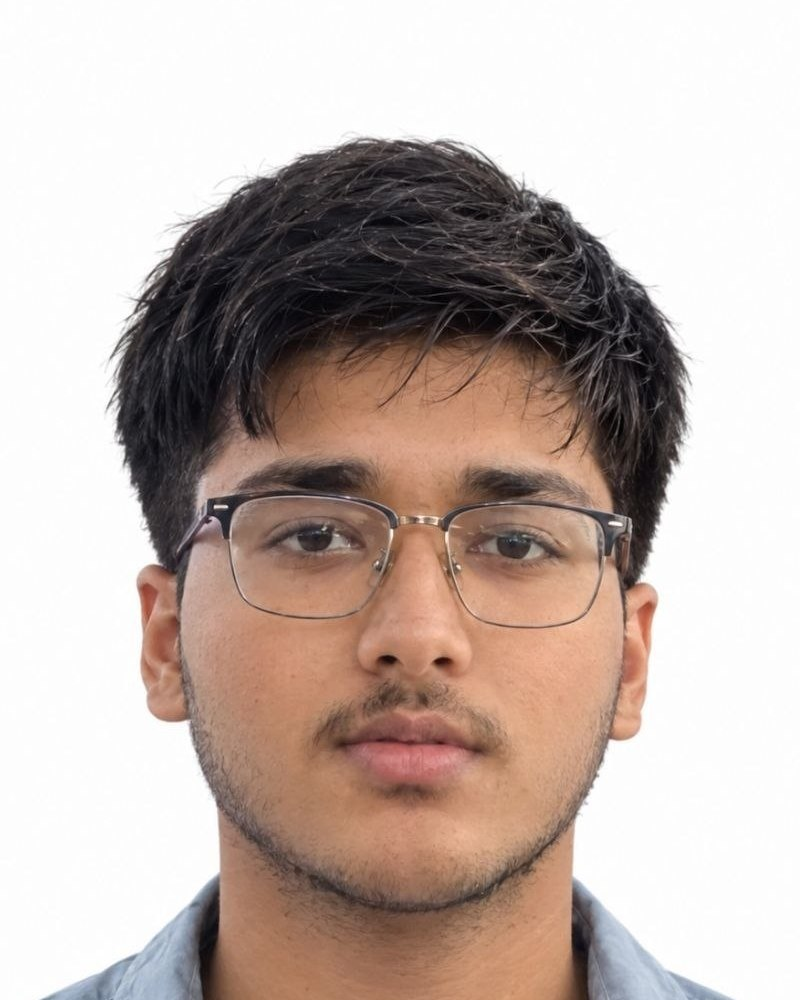
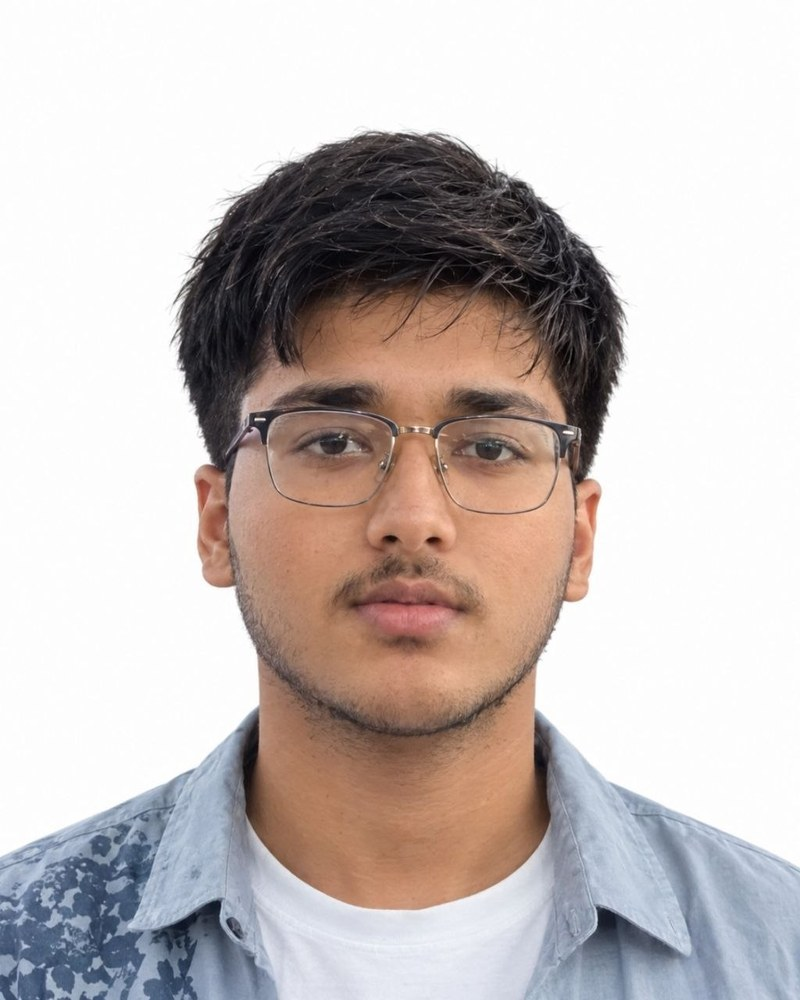
Founders: zoom out Aryan and Adarsh to show full frame with shoulders
- Use the entire original frame for Aryan and Adarsh instead of a tight
  bust crop; image stays fully inside the placeholder
- Trim the 2px grey scan border from Adarsh's photo
- Portrait img now uses its natural aspect ratio (no object-fit crop);
  Ismat's full-bleed variant keeps object-fit: cover
- Bump photo cache-bust to ?v=4

diff --git a/product.html b/product.html
@@ -560,14 +560,14 @@ h1,h2,h3,h4{ margin:0; font-weight:700; letter-spacing:-.02em; line-height:1.1; 
 }
 .founder-photo svg{ position:relative; width:56px; height:56px; stroke:currentColor; fill:none; stroke-width:1.4; }
 .founder-photo img{
-  position:absolute; top:0; left:50%; height:100%; aspect-ratio:4/5; width:auto; display:block; object-fit:cover;
+  position:absolute; top:0; left:50%; height:100%; width:auto; display:block;
   transform:translateX(-50%);
   -webkit-user-drag:none; user-select:none;
 }
 /* Full-bleed variant: the photo fills the whole block edge to edge (no side fill) */
 .founder-photo.cover::before{ display:none; }
 .founder-photo.cover img{
-  left:0; width:100%; aspect-ratio:auto; transform:none;
+  left:0; width:100%; aspect-ratio:auto; transform:none; object-fit:cover;
   object-position:var(--pos,50% 50%);
 }
 .founder-body{ padding:0 26px; }
@@ -1197,9 +1197,9 @@ footer{ border-top:1px solid var(--border); padding:60px 0 40px; background:rgba
 /* ================= founders carousel ================= */
 (function(){
   const FOUNDERS = [
-    { name:"Aryan Singh Sengar", role:"Founder & CTO", desc:"Leads Wynko\u2019s technology and product development, turning the vision into a focused study platform built for serious students.", photo:"founder-aryan.jpg?v=3", l:["#fdfdfd","#fdfdfd","#fdfdfd","#fdfdfd","#fdfdfd","#fdfdfd","#fdfdfd","#fdfdfd","#fdfdfd","#fdfdfd","#fdfdfd","#fdfdfd","#fdfdfd","#fdfdfd","#fdfdfd","#fdfdfd"], r:["#fdfdfd","#fdfdfd","#fdfdfd","#fdfdfd","#fdfdfd","#fdfdfd","#fdfdfd","#fdfdfd","#fdfdfd","#fdfdfd","#fdfdfd","#fdfdfd","#fdfdfd","#fdfdfd","#fdfdfd","#fdfdfd"] },
+    { name:"Aryan Singh Sengar", role:"Founder & CTO", desc:"Leads Wynko\u2019s technology and product development, turning the vision into a focused study platform built for serious students.", photo:"founder-aryan.jpg?v=4", l:["#fdfdfd","#fdfdfd"], r:["#fdfdfd","#fdfdfd"] },
     { name:"Jatin Sinsinwar", role:"Co-founder & CEO", desc:"Leads Wynko\u2019s vision, growth, and business strategy, working to build a study platform that can scale from India to students globally.", photo:"founder-jatin.jpg?v=3", l:["#73583c","#7f6144","#89694b","#92714f","#9c7854","#a27e59","#a9835e","#ad8760","#b08a63","#b48e67","#b69069","#b89269","#ba946b","#bc966d","#be986f","#bf9a71"], r:["#5d452f","#674d34","#73563b","#7e5f42","#896747","#94704b","#9b764f","#a07a51","#a07a53","#9f7853","#a57e56","#ab835a","#ab855c","#a9835b","#a47f5a","#9c7956"] },
-    { name:"Adarsh Singh", role:"Chief Marketing Officer", desc:"Leads Wynko\u2019s marketing and brand growth, helping connect the product with students and build a strong community around focused learning.", photo:"founder-adarsh.jpg?v=3", l:["#fdfdfd","#fdfdfd","#fdfdfd","#fdfdfd","#fdfdfd","#fdfdfd","#fdfdfd","#fdfdfd","#fdfdfd","#fdfdfd","#fdfdfd","#fdfdfd","#fdfdfd","#fdfdfd","#fdfdfd","#fdfdfd"], r:["#fdfdfd","#fdfdfd","#fdfdfd","#fdfdfd","#fdfdfd","#fdfdfd","#fdfdfd","#fdfdfd","#fdfdfd","#fdfdfd","#fdfdfd","#fdfdfd","#fdfdfd","#fdfdfd","#fdfdfd","#fdfdfd"] },
+    { name:"Adarsh Singh", role:"Chief Marketing Officer", desc:"Leads Wynko\u2019s marketing and brand growth, helping connect the product with students and build a strong community around focused learning.", photo:"founder-adarsh.jpg?v=4", l:["#fdfdfd","#fdfdfd"], r:["#fdfdfd","#fdfdfd"] },
     { name:"Ismat Makwana", role:"Cybersecurity Expert", desc:"Helps strengthen Wynko\u2019s security and privacy, focusing on protecting the platform, its users, and the data behind a trusted study experience.", photo:"founder-ismat.jpg?v=3", cover:true, pos:"50% 64%" }
   ];
 
